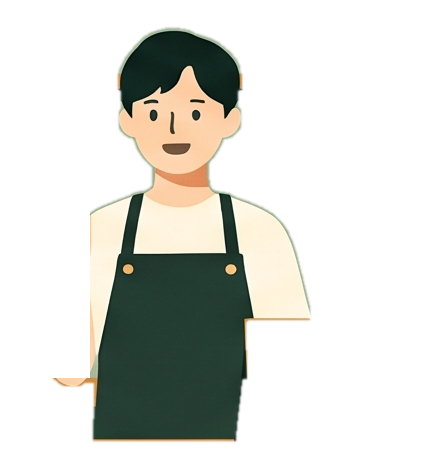
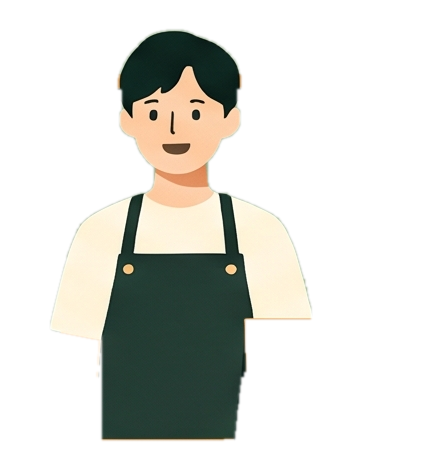
술술 카페: 손 흔들기를 그림 자르기 대신 층 나누기로 — Gemini로 '흔드는 팔만 지운 그림'을 받아 팔 없는 몸 층(가려졌던 셔츠 옆구리까지 그려진)과 팔 한 층(손~팔뚝)으로 나눔, 팔은 카운터 선반 위 팔꿈치 축으로만 움직이고 선반을 앞 겹으로, 흔드는 각도 줄임

diff --git a/sulsul/scene.js b/sulsul/scene.js
@@ -2,8 +2,8 @@
 // 덩어리(chunk) = [영어, 뜻, 왜 이렇게 말하는지]
 const CAFE = {
   who: "Leo", whoKo: "바리스타", pos: "62% 50%", voices: { them: "m", guest: "f" },
-  // 움직이는 겹: 바리스타를 지운 배경 + 몸(숨 쉬듯) + 손(팔꿈치 축으로 인사) + 앞 메뉴판. 좌표는 원본 2752×1536 기준
-  layers: { w: 2752, h: 1536, plate: "img/scenes/cafe/plate.webp", box: [1560, 340, 430, 455], body: "img/scenes/cafe/body.png", hand: "img/scenes/cafe/hand.png", pivot: [1650, 705], front: ["img/scenes/cafe/menu.png", 1800, 652, 172, 144] },
+  // 움직이는 겹: 바리스타를 지운 배경 + 팔 없는 몸(숨 쉬듯) + 팔 한 층(카운터 위 팔꿈치 축으로 인사) + 앞 카운터 선반·메뉴판. 좌표는 원본 2752×1536 기준
+  layers: { w: 2752, h: 1536, plate: "img/scenes/cafe/plate.webp", box: [1560, 340, 430, 455], body: "img/scenes/cafe/body.png", hand: "img/scenes/cafe/hand.png", pivot: [1630, 720], front: [["img/scenes/cafe/counter.png", 1560, 716, 90, 54], ["img/scenes/cafe/menu.png", 1800, 652, 172, 144]] },
   overhear: [
     ["them", "Good morning! What can I get for you?"],
     ["guest", "Hi, can I get a hot latte, please?", [["can I get", "~ 주세요", "주문할 때 가장 흔한 말이에요. Give me보다 부드러워요."]]],
@@ -83,7 +83,7 @@ function buildStage(sc) {
     <div class="breath" style="left:${pc(bx, L2.w)};top:${pc(by, L2.h)};width:${pc(bw, L2.w)};height:${pc(bh, L2.h)}">
       <img src="${L2.body}" alt=""><img class="handwave" src="${L2.hand}" alt="" style="transform-origin:${pc(L2.pivot[0] - bx, bw)} ${pc(L2.pivot[1] - by, bh)}">
     </div>
-    ${L2.front ? `<img class="front" src="${L2.front[0]}" alt="" style="left:${pc(L2.front[1], L2.w)};top:${pc(L2.front[2], L2.h)};width:${pc(L2.front[3], L2.w)};height:${pc(L2.front[4], L2.h)}">` : ""}`;
+    ${(L2.front || []).map(([src, x, y, w, h]) => `<img class="front" src="${src}" alt="" style="left:${pc(x, L2.w)};top:${pc(y, L2.h)};width:${pc(w, L2.w)};height:${pc(h, L2.h)}">`).join("")}`;
   fitStage();
 }
 // object-fit: cover 처럼 무대를 꽉 채우되, 사람 쪽(pos)이 보이게

diff --git a/sulsul/index.html b/sulsul/index.html
@@ -111,7 +111,7 @@ label.f { display: grid; gap: 4px; margin-top: 12px; font-size: 15px; font-weigh
 .breath { transform-origin: 50% 100%; animation: breathe 4.8s ease-in-out infinite }
 @keyframes breathe { 0%, 100% { transform: scale(1) } 50% { transform: scale(1.014) } }
 .handwave { animation: handwave 4s ease-in-out infinite }
-@keyframes handwave { 0%, 48%, 100% { transform: rotate(0) } 10% { transform: rotate(-9deg) } 20% { transform: rotate(6deg) } 30% { transform: rotate(-7deg) } 40% { transform: rotate(3deg) } }
+@keyframes handwave { 0%, 48%, 100% { transform: rotate(0) } 10% { transform: rotate(-6deg) } 20% { transform: rotate(4deg) } 30% { transform: rotate(-5deg) } 40% { transform: rotate(2deg) } }
 .sctop { position: absolute; left: 0; right: 0; top: 0; display: flex; align-items: center; gap: 10px; padding: 14px 16px }
 .sctop button { width: 40px; height: 40px; border-radius: 50%; background: rgba(250,251,250,.9); font-size: 20px; display: grid; place-items: center }
 .sctop p { margin: 0; padding: 6px 12px; border-radius: 12px; background: rgba(250,251,250,.9); font-weight: 700 }
